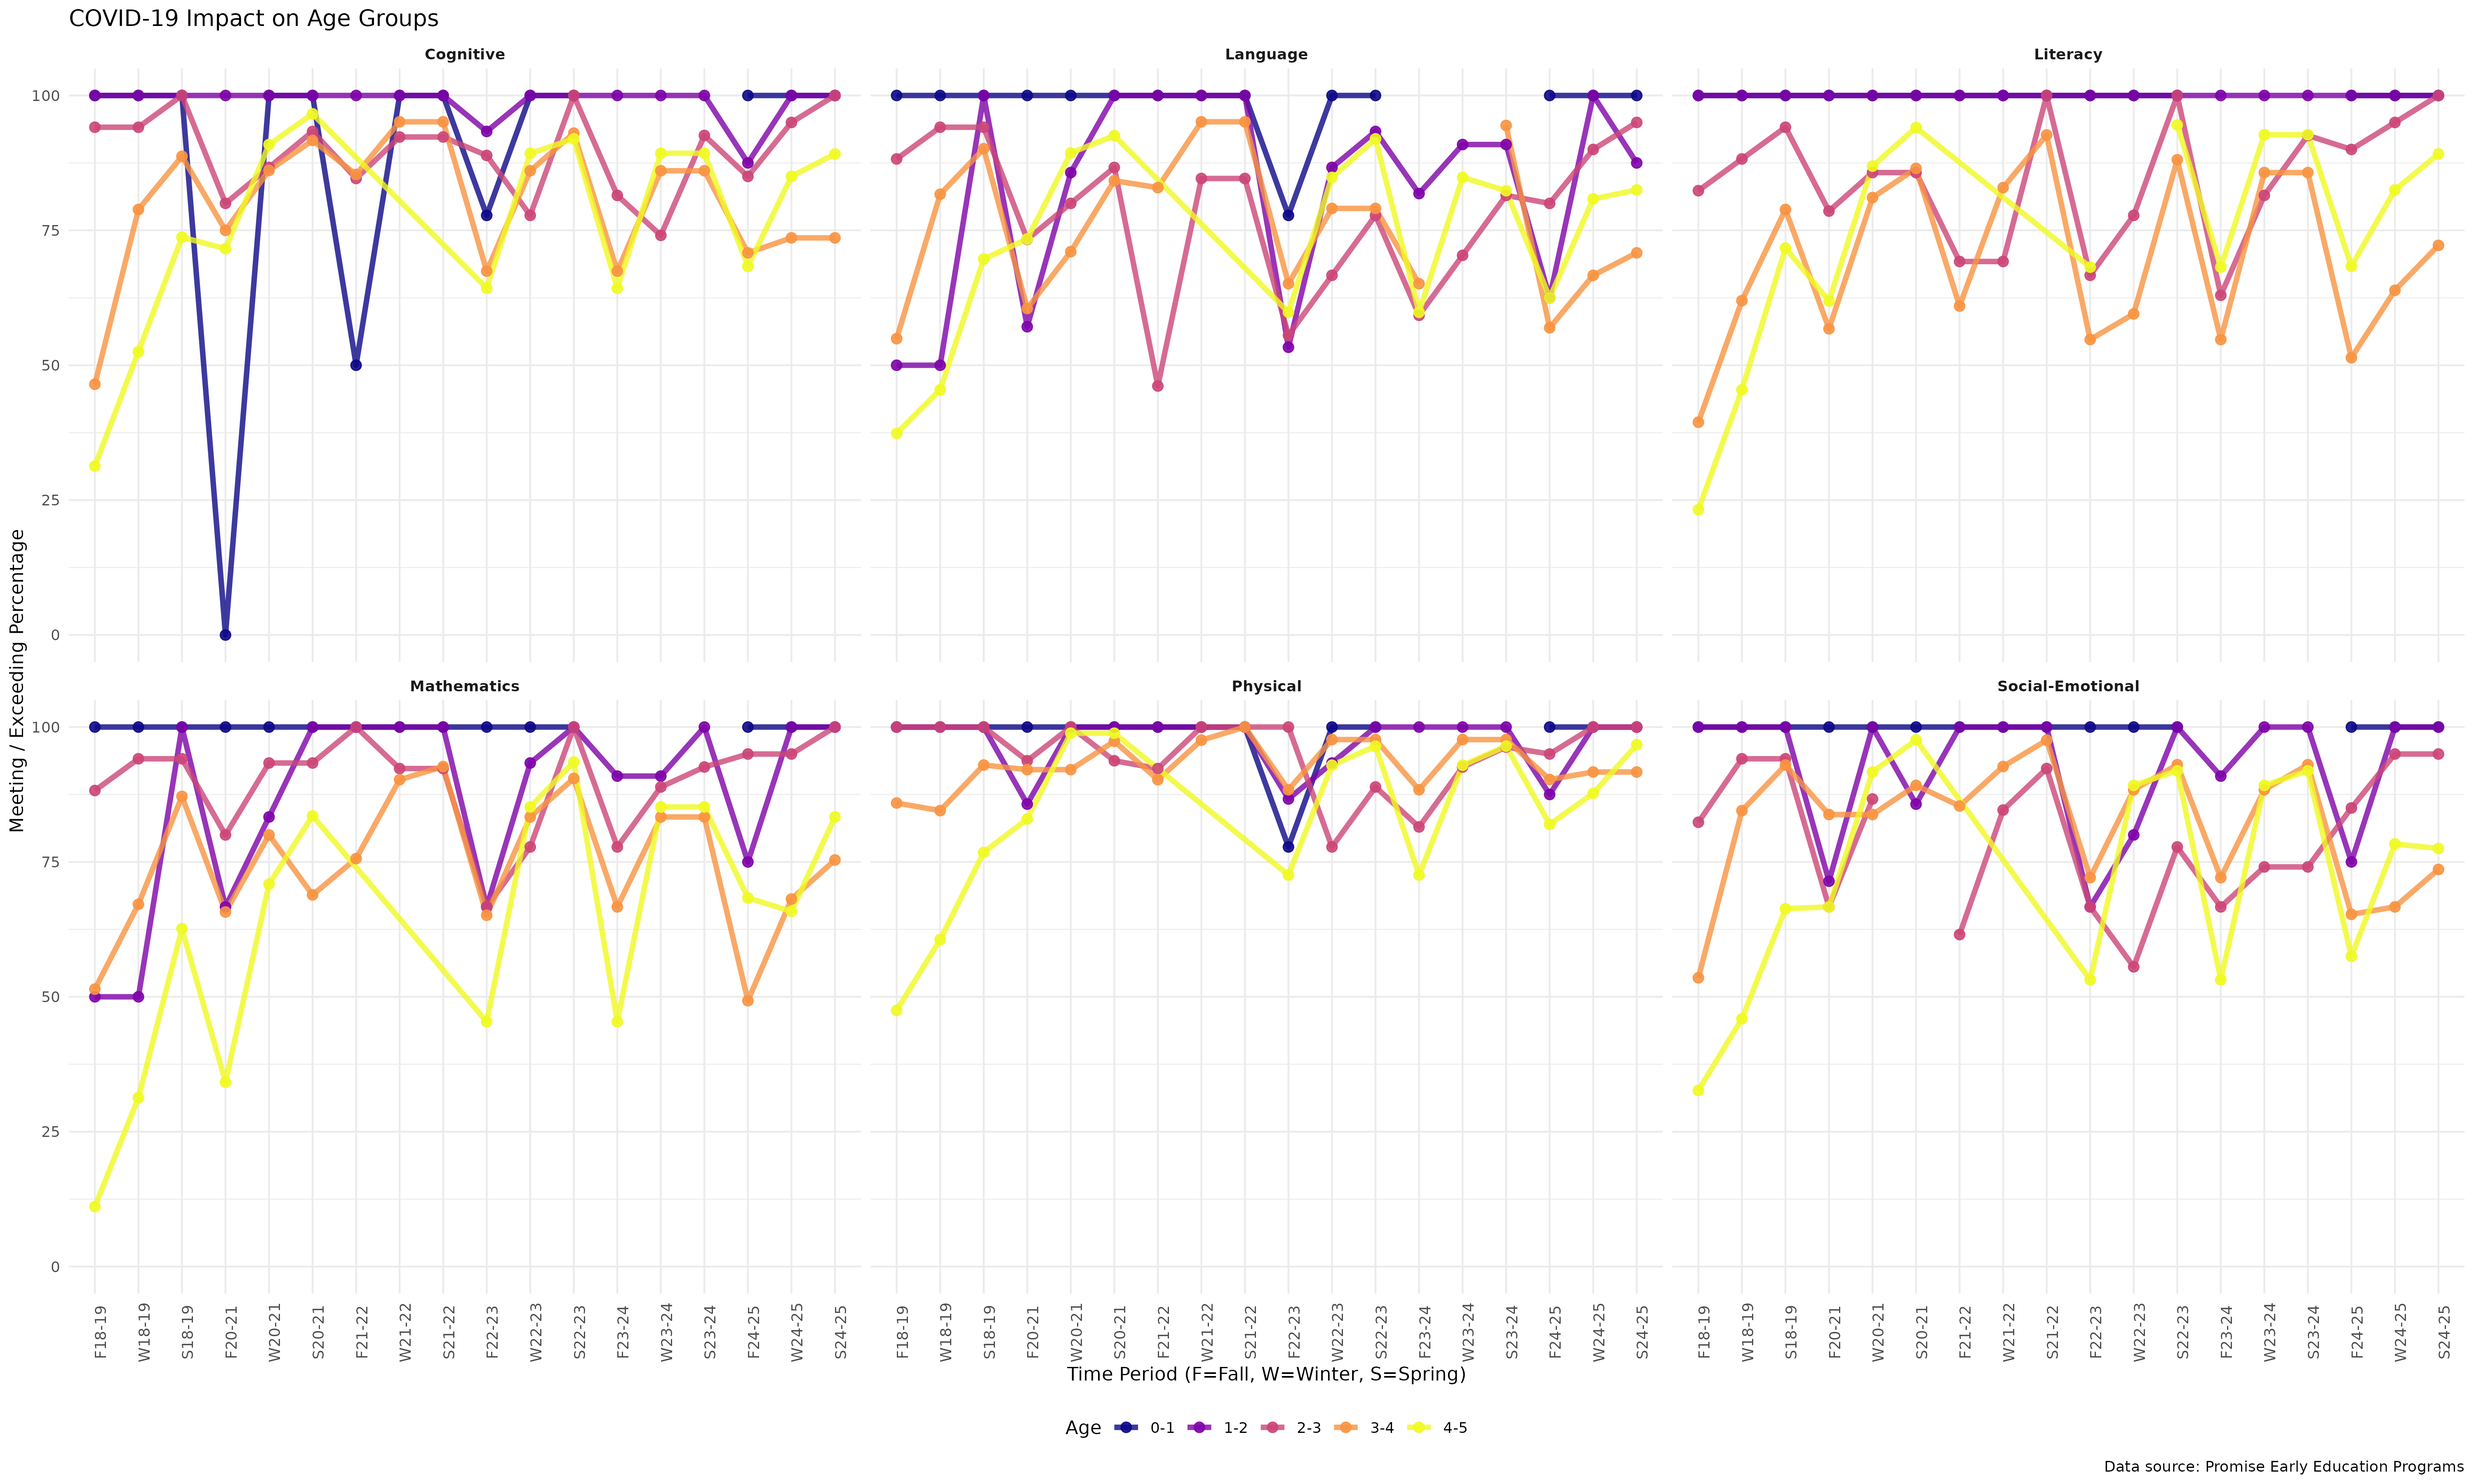
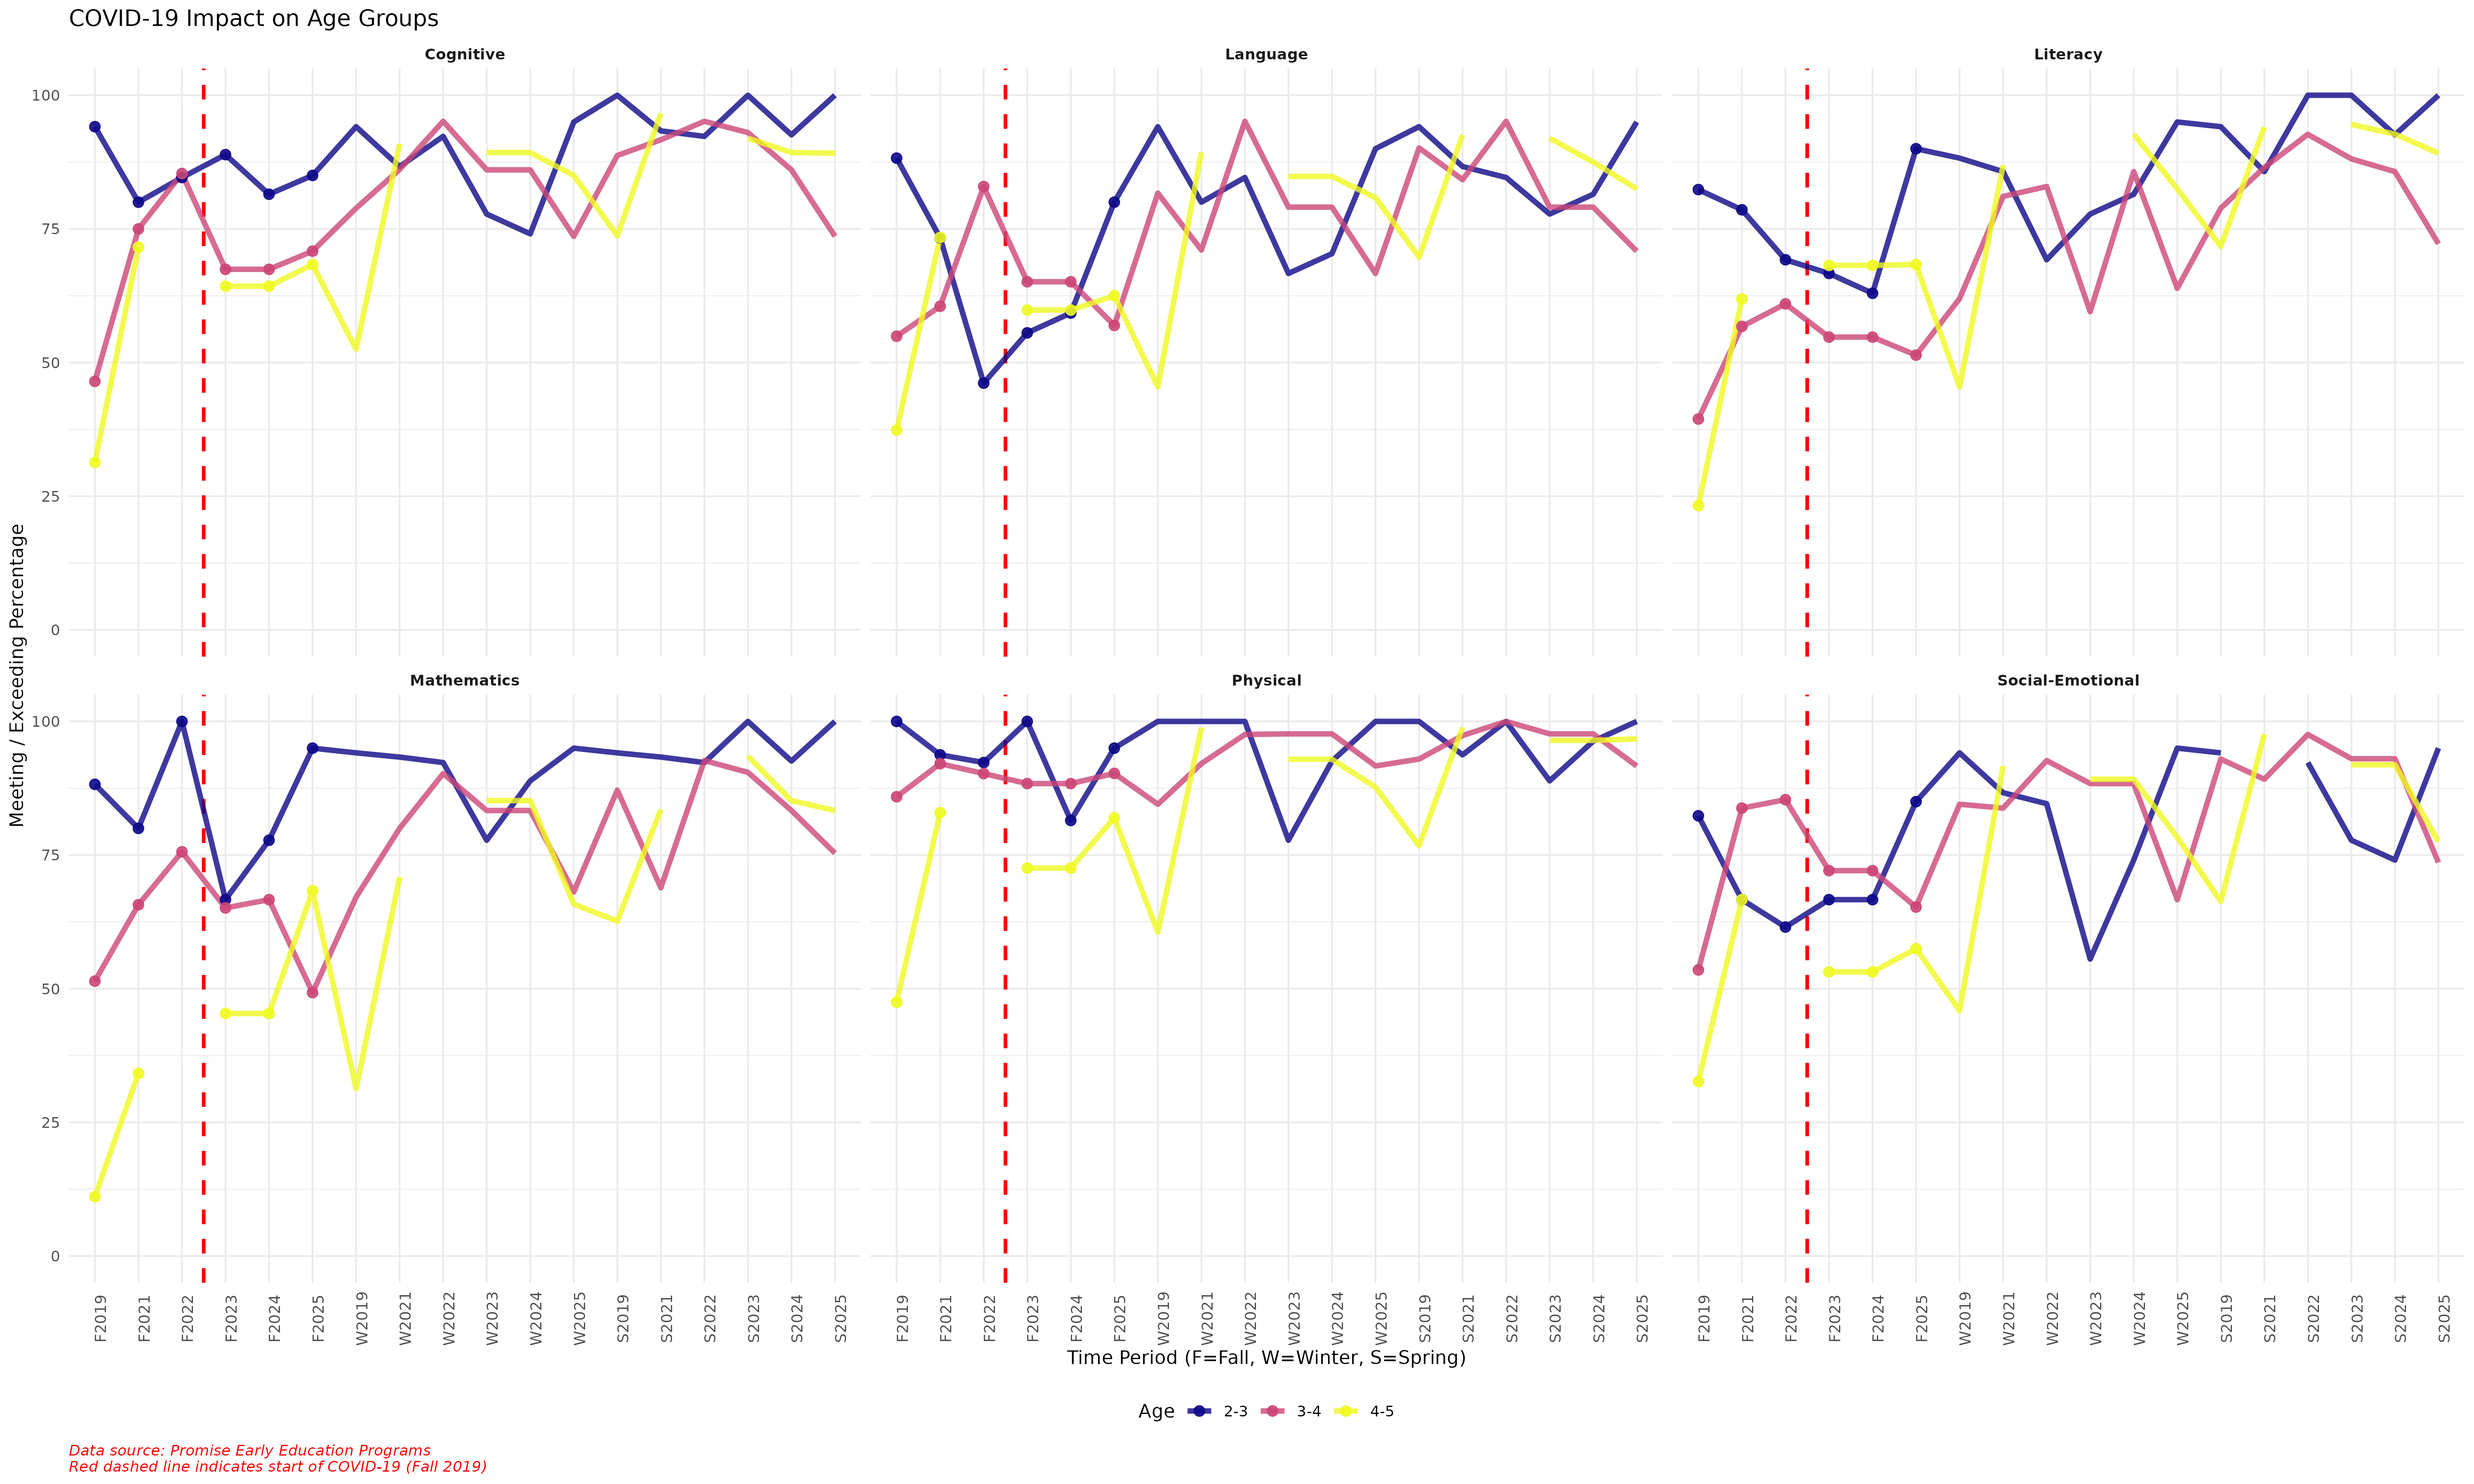
Plot 2

diff --git a/proposal/proposal.md b/proposal/proposal.md
@@ -218,50 +218,92 @@ X2024_2025 <- read_excel("../data/ignore/2024-2025.xlsx")
 ```
 
 ``` r
-# Merge data
-data <- bind_rows( X2018_2019 |> select(Category, `# Children`, Age, `# Meeting / Exceeding`, `Time Period`) |> 
-mutate(`# Children` = suppressWarnings(as.numeric(`# Children`)), `# Meeting / Exceeding` = suppressWarnings(as.numeric(`# Meeting / Exceeding`)), year = "18-19"),
+# Merge all data files
+data <- bind_rows(
+X2018_2019 |> select(Category, `# Children`, Age, `# Meeting / Exceeding`, `Time Period`) |> 
+mutate(`# Children` = suppressWarnings(as.numeric(`# Children`)), 
+`# Meeting / Exceeding` = suppressWarnings(as.numeric(`# Meeting / Exceeding`)), 
+  year = "2019"),
 X2020_2021 |> select(Category, `# Children`, Age, `# Meeting / Exceeding`, `Time Period`) |> 
-mutate(`# Children` = suppressWarnings(as.numeric(`# Children`)), `# Meeting / Exceeding` = suppressWarnings(as.numeric(`# Meeting / Exceeding`)), year = "20-21"), 
+mutate(`# Children` = suppressWarnings(as.numeric(`# Children`)), 
+  `# Meeting / Exceeding` = suppressWarnings(as.numeric(`# Meeting / Exceeding`)), 
+    year = "2021"), 
 X2021_2022 |> select(Category, `# Children`, Age, `# Meeting / Exceeding`, `Time Period`) |> 
-mutate(`# Children` = suppressWarnings(as.numeric(`# Children`)), `# Meeting / Exceeding` = suppressWarnings(as.numeric(`# Meeting / Exceeding`)), year = "21-22"),
+mutate(`# Children` = suppressWarnings(as.numeric(`# Children`)), 
+`# Meeting / Exceeding` = suppressWarnings(as.numeric(`# Meeting / Exceeding`)), 
+      year = "2022"),
 X2022_2023 |> select(Category, `# Children`, Age, `# Meeting / Exceeding`, `Time Period`) |> 
-mutate(`# Children` = suppressWarnings(as.numeric(`# Children`)), `# Meeting / Exceeding` = suppressWarnings(as.numeric(`# Meeting / Exceeding`)), year = "22-23"),
+mutate(`# Children` = suppressWarnings(as.numeric(`# Children`)), 
+    `# Meeting / Exceeding` = suppressWarnings(as.numeric(`# Meeting / Exceeding`)), 
+       year = "2023"),
 X2023_2024 |> select(Category, `# Children`, Age, `# Meeting / Exceeding`, `Time Period`) |> 
-mutate(`# Children` = suppressWarnings(as.numeric(`# Children`)), `# Meeting / Exceeding` = suppressWarnings(as.numeric(`# Meeting / Exceeding`)), year = "23-24"),
+mutate(`# Children` = suppressWarnings(as.numeric(`# Children`)), 
+    `# Meeting / Exceeding` = suppressWarnings(as.numeric(`# Meeting / Exceeding`)), 
+           year = "2024"),
 X2024_2025 |> select(Category, `# Children`, Age, `# Meeting / Exceeding`, `Time Period`) |> 
-mutate(`# Children` = suppressWarnings(as.numeric(`# Children`)), `# Meeting / Exceeding` = suppressWarnings(as.numeric(`# Meeting / Exceeding`)), year = "24-25")
-) |>
-  mutate(
+  mutate(`# Children` = suppressWarnings(as.numeric(`# Children`)), 
+    `# Meeting / Exceeding` = suppressWarnings(as.numeric(`# Meeting / Exceeding`)), 
+     year = "2025")
+)
+
+# Clean data
+data <- data |>
+mutate(
+## Convert to numbers
+num_children = as.numeric(`# Children`),
+num_meeting = as.numeric(`# Meeting / Exceeding`),
+    
+## Find season (F, W, or S)
 season = case_when(
 str_detect(`Time Period`, "Fall") ~ "F",
 str_detect(`Time Period`, "Winter") ~ "W",
 str_detect(`Time Period`, "Spring") ~ "S"
-    ),
+  ),
+    
+#Create labels
 label = paste0(season, year),
-sort_num = as.numeric(str_sub(year, 1, 2)) * 10 + match(season, c("F","W","S"))
+    
+# Create sorting number
+year_num = as.numeric(substr(year, 1, 2)),
+season_num = ifelse(season == "F", 1, ifelse(season == "W", 2, 3)),
+sort_num = year_num * 10 + season_num
   ) |>
-drop_na() |>
-group_by(label, Category, Age, sort_num) |>
-summarise(percent = sum(`# Meeting / Exceeding`) / sum(`# Children`) * 100, .groups = "drop")
+  
 
-# I will make the plot and save it to covid_plot variable
-covid_plot <- ggplot(data, aes(reorder(label, sort_num), percent, color = Age, group = Age)) +
+  
+# Remove age groups 0-1 and 1-2
+filter(Age != "0-1", Age != "1-2") |>
+  
+# Calculate percentage
+group_by(label, Category, Age, sort_num, year) |>
+summarise(percent = sum(num_meeting) / sum(num_children) * 100, .groups = "drop")
+
+# Find first point of each year for each age and category
+first_points <- data |>
+group_by(Category, Age, year) |>
+filter(sort_num == min(sort_num))
+
+# Create plot
+covid_plot <- ggplot(data, aes(x = reorder(label, sort_num), y = percent, 
+color = Age, group = Age)) +
+geom_vline(xintercept = 3.5, color = "red", linetype = "dashed", size = 1) +
 geom_line(size = 1.5, alpha = 0.8) +
-geom_point(size = 2.5, alpha = 0.9) +
+geom_point(data = first_points, size = 2.5, alpha = 0.9) +
 facet_wrap(~Category) +
 scale_color_viridis_d(option = "plasma") +
-ylim(0, 100) +
-labs(title = "COVID-19 Impact on Age Groups", 
-x = "Time Period (F=Fall, W=Winter, S=Spring)", 
-y = "Meeting / Exceeding Percentage", 
-caption = "Data source: Promise Early Education Programs" ) +
+  ylim(0, 100) +  labs(
+title = "COVID-19 Impact on Age Groups",
+x = "Time Period (F=Fall, W=Winter, S=Spring)",
+y = "Meeting / Exceeding Percentage",
+caption = "Data source: Promise Early Education Programs\nRed dashed line indicates start of COVID-19 (Fall 2019)"
+  ) +
   
 theme_minimal() +
 theme(
 axis.text.x = element_text(angle = 90, size = 9),
 strip.text = element_text(face = "bold"),
-legend.position = "bottom"
+legend.position = "bottom",
+plot.caption = element_text(hjust = 0, color = "red", face = "italic")
   )
 ```
 
@@ -272,100 +314,18 @@ legend.position = "bottom"
     ## generated.
 
 ``` r
-#Save
+# Save png
 ggsave("covid_clear_plot.png", covid_plot, width = 20, height = 12, dpi = 300)
 ```
 
-    ## Warning: Removed 21 rows containing missing values or values outside the scale range
+    ## Warning: Removed 6 rows containing missing values or values outside the scale range
     ## (`geom_point()`).
 
 ``` r
 covid_plot
 ```
 
-    ## Warning: Removed 21 rows containing missing values or values outside the scale range
+    ## Warning: Removed 6 rows containing missing values or values outside the scale range
     ## (`geom_point()`).
 
-<img src="proposal_files/figure-gfm/unnamed-chunk-1-1.png" alt="This faceted line chart tracks the percentage of children meeting learning goals across six specific developmental categories: Cognitive, Language, Literacy, Mathematics, Physical, and Social-Emotional. The data covers the 2018–2019 to 2024–2025 school years and organizes time by season: Fall (F), Winter (W) and Spring (S) to highlight progress throughout each year. Each colored line represents a different age group: Dark Blue is 0–1 years, Purple is 1–2 years, Pink is 2–3 years, Orange is 3–4 years and Yellow is 4–5 years. The purpose of this chart is to visualize how the COVID-19 pandemic disrupted learning in these specific areas and to track how children's development has recovered over time."  />
-
-As we see COVID-19 pandemic made it much harder for young children to
-learn and grow, especially in Social-Emotional and Language skills.
-Children stayed physically active and healthy but they struggled more
-with managing feelings and talking to others. The data reveals that the
-youngest children aged 0–2 have had the biggest drops in progress
-recently and that happens likely because they were born during stressful
-times with less social interaction. While they recover well during the
-school year, this data still highlights a strong need for summer bridge
-programs and focused social-emotional support to help them stay more on
-track and grow.
-
-``` r
-### Put together all the data from different years
-data <- bind_rows( X2018_2019 |> select(Category, `# Children`, Age, `# Meeting / Exceeding`, `Time Period`) |> mutate(`# Children` = suppressWarnings(as.numeric(`# Children`)), 
-`# Meeting / Exceeding` = suppressWarnings(as.numeric(`# Meeting / Exceeding`)), 
-year = "2019"),
-X2020_2021 |> select(Category, `# Children`, Age, `# Meeting / Exceeding`, `Time Period`) |> 
-mutate(`# Children` = suppressWarnings(as.numeric(`# Children`)), 
-`# Meeting / Exceeding` = suppressWarnings(as.numeric(`# Meeting / Exceeding`)), 
-year = "2021"), 
-X2021_2022 |> select(Category, `# Children`, Age, `# Meeting / Exceeding`, `Time Period`) |> 
-mutate(`# Children` = suppressWarnings(as.numeric(`# Children`)), 
-`# Meeting / Exceeding` = suppressWarnings(as.numeric(`# Meeting / Exceeding`)), 
-year = "2022"),
-X2022_2023 |> select(Category, `# Children`, Age, `# Meeting / Exceeding`, `Time Period`) |> 
-mutate(`# Children` = suppressWarnings(as.numeric(`# Children`)), 
-`# Meeting / Exceeding` = suppressWarnings(as.numeric(`# Meeting / Exceeding`)), 
-year = "2023"),
-X2023_2024 |> select(Category, `# Children`, Age, `# Meeting / Exceeding`, `Time Period`) |> 
-mutate(`# Children` = suppressWarnings(as.numeric(`# Children`)), 
-`# Meeting / Exceeding` = suppressWarnings(as.numeric(`# Meeting / Exceeding`)), 
-year = "2024"),
-X2024_2025 |> select(Category, `# Children`, Age, `# Meeting / Exceeding`, `Time Period`) |> 
-mutate(`# Children` = suppressWarnings(as.numeric(`# Children`)), 
-`# Meeting / Exceeding` = suppressWarnings(as.numeric(`# Meeting / Exceeding`)), 
-year = "2025")
-)
-
-# filter 0-1 age group and calculate percentages
-data <- data |>
-filter(Age != "0-1") |>
-drop_na() |>
-group_by(year, Category, Age) |>
-summarise(percent = sum(`# Meeting / Exceeding`) / sum(`# Children`) * 100, .groups = "drop") |>
-mutate( covid_period = case_when(
-year == "2019" ~ "Before COVID",
-year %in% c("2021", "2022") ~ "During COVID",
-TRUE ~ "After COVID"
-  ),
-covid_period = factor(covid_period, levels = c("Before COVID", "During COVID", "After COVID"))
-)
-
-## Heatmap
-covid_plot <- ggplot(data, aes(x = year, y = Age, fill = percent)) +
-geom_tile(color = "white", size = 0.5) +
-geom_text(aes(label = round(percent, 0)), color = "white", fontface = "bold", size = 3) +
-facet_grid(covid_period ~ Category, scales = "free_y", space = "free_y") +
-scale_fill_viridis_c(option = "plasma", begin = 0.1, end = 0.9) +
-labs(title = "COVID-19 Impact Heatmap: Child Development Across Age Groups",
-subtitle = "Darker colors = Higher performance | Numbers show percentage meeting/exceeding goals",
-x = "Year", y = "Age Group", fill = "% Meeting and Exceeding\nGoals",
-caption = "Data source: Promise Early Education Programs") +
-theme_minimal(base_size = 12) +
-theme(
-plot.title = element_text(face = "bold", size = 15, hjust = 0.5),
-plot.subtitle = element_text(size = 10, hjust = 0.5, color = "gray30", margin = margin(b = 10)),
-axis.text.x = element_text(angle = 0, hjust = 0.5, size = 9),
-axis.text.y = element_text(size = 10),
-strip.text = element_text(face = "bold", size = 10),
-legend.position = "right",
-legend.title = element_text(face = "bold", size = 10),
-panel.grid = element_blank(),
-plot.caption = element_text(size = 8, color = "gray50", hjust = 1)
-  )
-
-# Save png
-ggsave("covid_impact_heatmap.png", covid_plot, width = 14, height = 10, dpi = 300)
-covid_plot
-```
-
-![](proposal_files/figure-gfm/unnamed-chunk-2-1.png)<!-- -->
+<img src="proposal_files/figure-gfm/unnamed-chunk-1-1.png" alt="This faceted line chart tracks the percentage of children meeting learning goals across six specific developmental categories: Cognitive, Language, Literacy, Mathematics, Physical, and Social-Emotional. The data covers the 2018–2019 to 2024–2025 school years and organizes time by season: Fall (F), Winter (W) and Spring (S) to highlight progress throughout each year. Each colored line represents a different age group:  Blue is 2–3 years, Pink is 3–4 years and Yellow is 4–5 years. The purpose of this chart is to visualize how the COVID-19 pandemic disrupted learning in these specific areas and to track how children's development has recovered over time."  />
